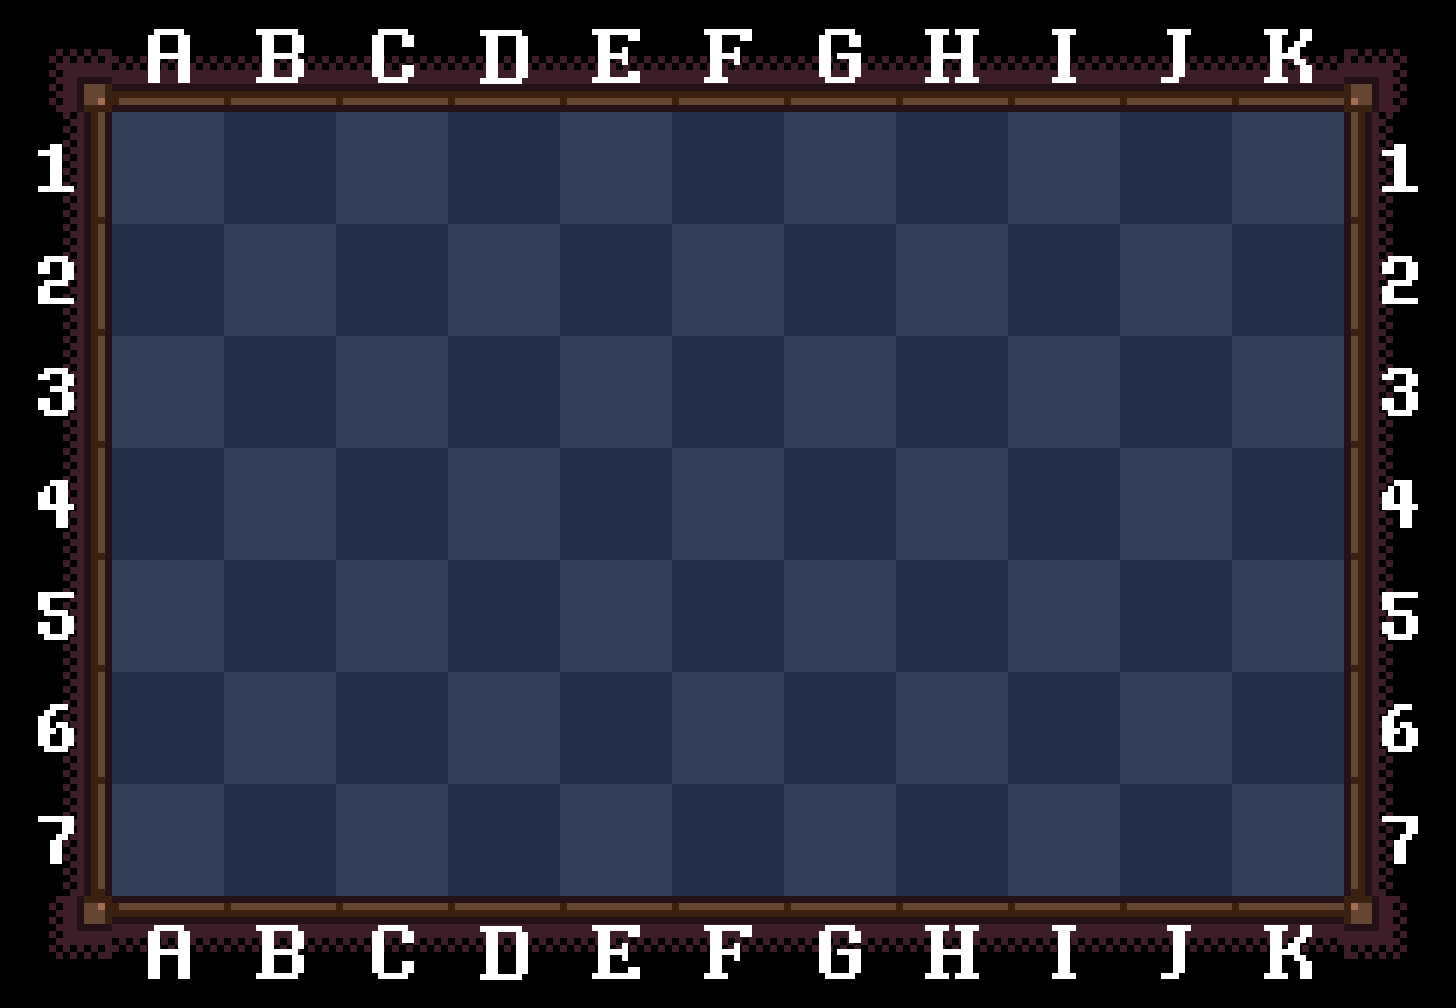
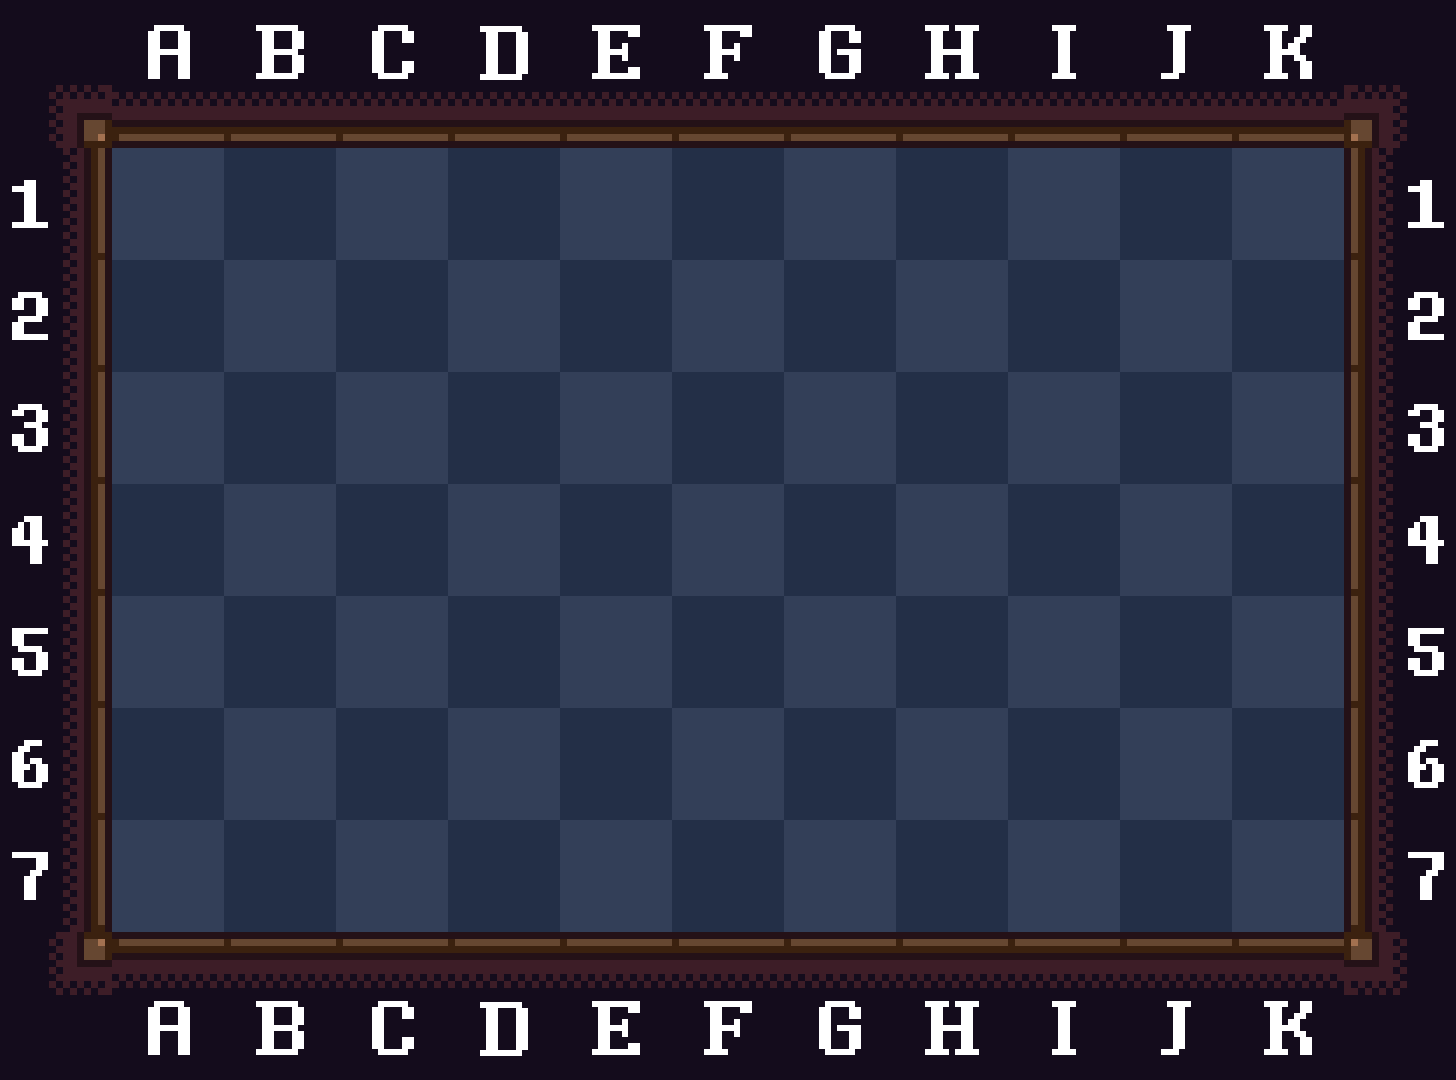
idk

diff --git a/console.java b/console.java
@@ -17,9 +17,9 @@ public class console extends JPanel implements ActionListener{
     } 
 
     public console(Image img) {
-        // notBlack = new Color(20,12,28);
-        notBlack = Color.BLACK;
-        // notWhite = new Color(102,106,105);
+        notBlack = new Color(20,12,28);
+        // notBlack = Color.BLACK;
+        notWhite = new Color(102,106,105);
         // notWhite = new Color(140,140,140);
         notWhite = Color.WHITE;
 
@@ -52,8 +52,8 @@ public class console extends JPanel implements ActionListener{
         String txt = textField.getText();
             textArea.insert(" "+txt, 0);
             
-            if(includes(txt, "move to")){
-                String[] args = parser("move to");
+            if(includes(txt, "move red to")){
+                String[] args = parser("move red to");
                 if(args==null){System.exit(0);}
                 try{
                     int y = Character.getNumericValue(args[0].charAt(1));

diff --git a/GameRunner.java b/GameRunner.java
@@ -33,7 +33,7 @@ public class GameRunner {
         mainPanel.setLayout(null);
 
         m = new map("images/labeled-grid.png");// *Map
-        m.setBounds(0, 0, 1456, 1008);
+        m.setBounds(0, 0, 1456, 1080);
         mainPanel.add(m, -1);
 
         c = new console("");// *Console
@@ -54,7 +54,7 @@ public class GameRunner {
     public static void setLocation(int x, int y) {
         if (x < 112 || y < 112 || x >= 1344 || y >= 896) {
         } else {
-            p.setLocation(x, y);
+            p.setLocation(x, y+36);
         }
 
     }
@@ -65,6 +65,6 @@ public class GameRunner {
         String[] arr = str.split("\s");
         x = Integer.parseInt(arr[0]);
         y = Integer.parseInt(arr[1]);
-        p.setLocation(x, y);
+        p.setLocation(x, y+36);
     }
 }

diff --git a/info.java b/info.java
@@ -1,0 +1,5 @@
+public class info {
+    public info(){
+        
+    }
+}
